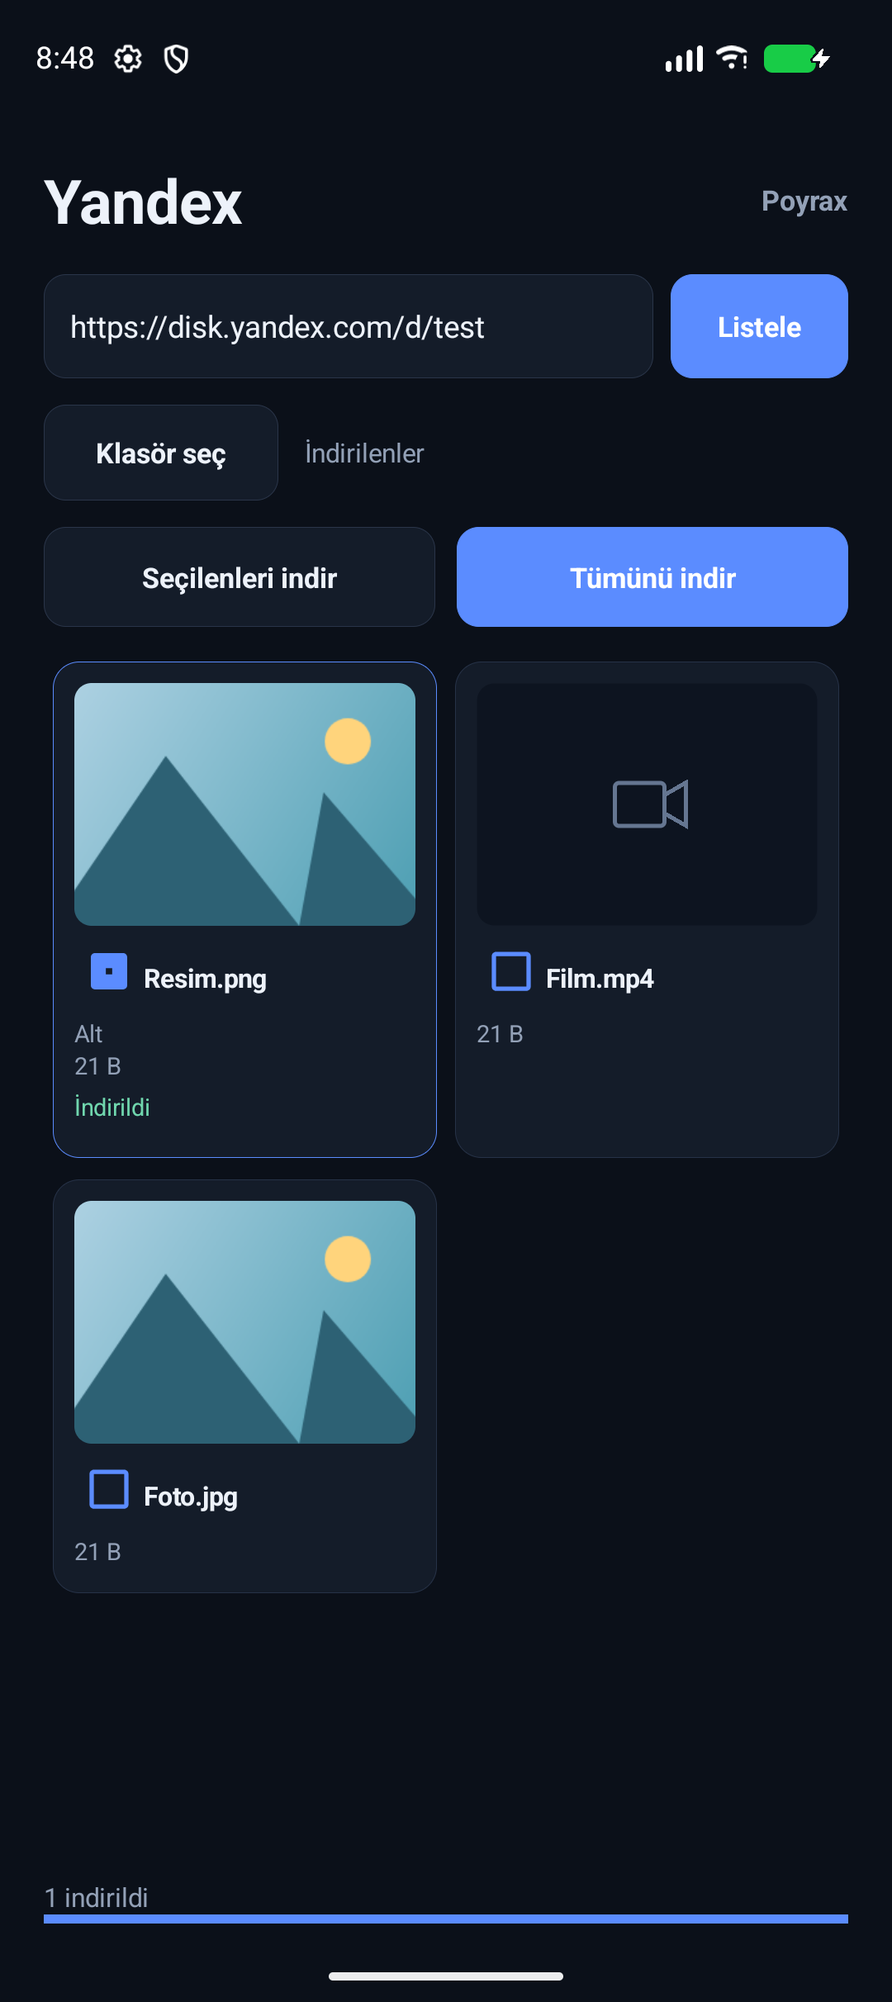
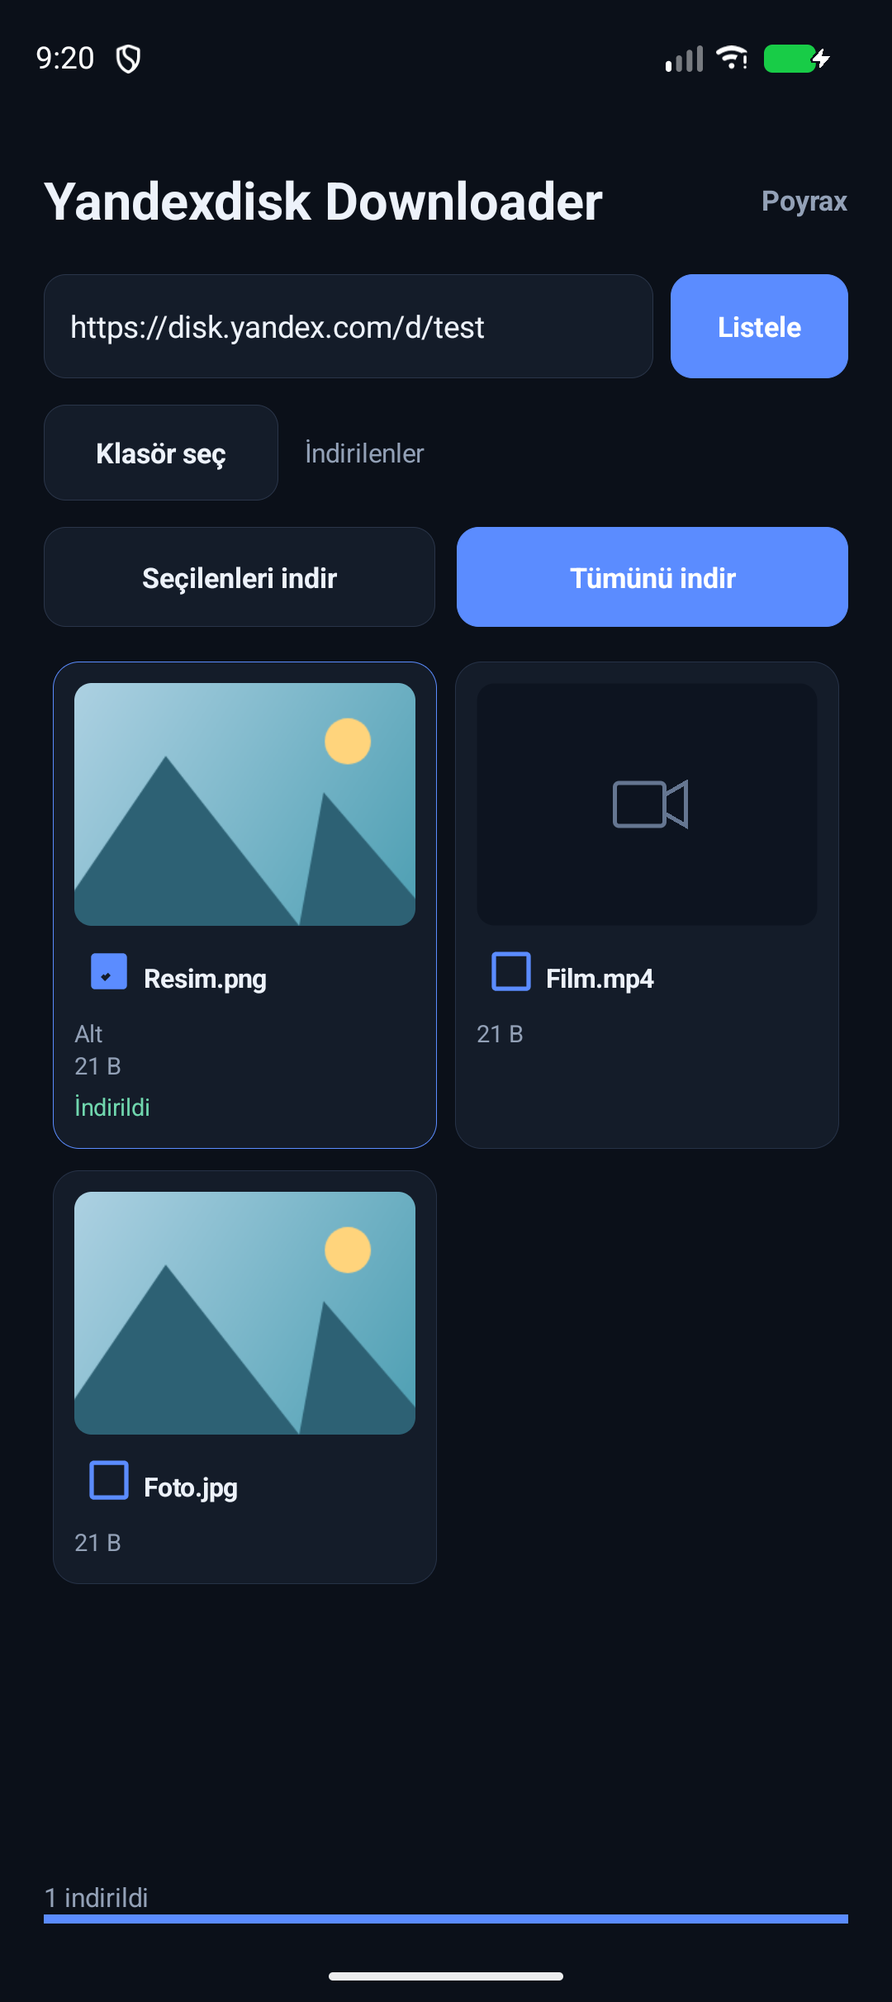
Rename Android app and document empty Yandex download addresses

diff --git a/android/app/src/androidTest/java/com/poyrax/yandex/AppTest.java b/android/app/src/androidTest/java/com/poyrax/yandex/AppTest.java
@@ -54,6 +54,7 @@ public class AppTest {
             until(() -> children(session.activity.getWindow().getDecorView(), android.widget.ImageView.class).stream().anyMatch(view -> view.getDrawable() != null));
             instrumentation.runOnMainSync(() -> {
                 assertNotNull(findText(session.activity, "Poyrax"));
+                assertNotNull(findText(session.activity, "Yandexdisk Downloader"));
                 List<CheckBox> choices = children(session.activity.getWindow().getDecorView(), CheckBox.class);
                 assertFalse(choices.isEmpty());
                 choices.get(0).setChecked(true);
@@ -61,8 +62,10 @@ public class AppTest {
                 assertTrue(selected.isEnabled());
                 selected.performClick();
             });
-            until(() -> findText(session.activity, "1 indirildi") != null);
+            until(() -> findText(session.activity, "1 indirildi") != null && !session.activity.downloadService.running);
             assertEquals(1, countFiles(session.folder));
+            instrumentation.waitForIdleSync();
+            Thread.sleep(200);
             screenshot("android.png");
         } finally { close(session.activity); }
     }
@@ -76,6 +79,8 @@ public class AppTest {
             instrumentation.runOnMainSync(() -> ((Button) findText(session.activity, "Tümünü indir")).performClick());
             until(() -> findText(session.activity, "3 indirildi · 1 indirilemedi") != null);
             assertEquals(3, countFiles(session.folder));
+            instrumentation.runOnMainSync(() -> children(session.activity.getWindow().getDecorView(), androidx.recyclerview.widget.RecyclerView.class).get(0).scrollToPosition(3));
+            until(() -> findText(session.activity, "İndirme adresi verilmedi. Paylaşımın indirme iznini kontrol edin.") != null);
             assertNotNull(session.folder.findFile("Alt"));
             assertNotNull(session.folder.findFile("Alt").findFile("Resim.png"));
             instrumentation.runOnMainSync(() -> ((Button) findText(session.activity, "Tümünü indir")).performClick());
@@ -201,8 +206,8 @@ public class AppTest {
             if (thumbnail) body = preview;
             else if (address.contains("/resources/download")) {
                 String path = URLDecoder.decode(address.substring(address.indexOf("&path=") + 6), "UTF-8");
-                if (blocked && path.equals("/Kapali.jpg")) status = 403;
-                body = ("{\"href\":\"https://download.test/file\"}").getBytes(StandardCharsets.UTF_8);
+                body = (blocked && path.equals("/Kapali.jpg") ? "{\"method\":\"GET\",\"href\":\"\",\"templated\":false}" :
+                        "{\"href\":\"https://download.test/file\"}").getBytes(StandardCharsets.UTF_8);
             } else if (address.contains("/resources?")) {
                 try {
                     JSONArray items = new JSONArray();

diff --git a/windows/Tests/Program.cs b/windows/Tests/Program.cs
@@ -47,6 +47,7 @@ internal static class Program
             ("Windows adları ve klasör sınırı", SafePathsAsync),
             ("Klasör adı çakışmaları", FolderCollisionsAsync),
             ("İndirme bağlantısını yenileme", DownloadRetriesAsync),
+            ("Boş indirme adresi ve devam eden kuyruk", EmptyDownloadAddressAsync),
             ("Eksik dosya ve devam eden kuyruk", FailedTransferAsync),
             ("Büyük dosya, akış ve eşzamanlılık", LargeStreamingAsync),
             ("İptal ve yarım dosya temizliği", DownloadCancellationAsync),
@@ -284,6 +285,24 @@ internal static class Program
         Equal(3, links);
         Equal(3, transfers);
         Equal(0, Directory.GetFiles(folder.Path, "*.part").Length);
+    }
+
+    private static async Task EmptyDownloadAddressAsync()
+    {
+        foreach (var body in new[] { "{\"method\":\"GET\",\"href\":\"\",\"templated\":false}", "{\"href\":\"   \"}", "{\"href\":null}", "{}" })
+        {
+            using var folder = new TemporaryFolder();
+            using var http = Mock(request => request.RequestUri!.Host != "cloud-api.yandex.net" ? Bytes(Payload) :
+                Query(request, "path") == "/bad.jpg" ? new HttpResponseMessage(HttpStatusCode.OK) { Content = new StringContent(body) } :
+                Json(new { href = "https://download.test/file" }));
+            using var client = Client(http);
+            var result = await client.DownloadAsync(Link, [File("bad.jpg"), File("good.jpg")], folder.Path, null, default);
+            Equal(1, result.Completed);
+            Equal(1, result.Failed);
+            Check(result.Updates.Any(u => u.State == TransferState.Failed && u.Error!.Contains("İndirme adresi verilmedi")), "Boş adres için hata eksik");
+            Equal(1, Directory.GetFiles(folder.Path).Length);
+            Check(System.IO.File.Exists(System.IO.Path.Combine(folder.Path, "good.jpg")), "Diğer dosya indirilmedi");
+        }
     }
 
     private static async Task FailedTransferAsync()

diff --git a/android/app/src/androidTest/java/com/poyrax/yandex/ApiTest.java b/android/app/src/androidTest/java/com/poyrax/yandex/ApiTest.java
@@ -1,0 +1,47 @@
+package com.poyrax.yandex;
+
+import android.os.Bundle;
+
+import androidx.test.ext.junit.runners.AndroidJUnit4;
+import androidx.test.platform.app.InstrumentationRegistry;
+
+import org.junit.Assume;
+import org.junit.Test;
+import org.junit.runner.RunWith;
+
+import java.util.List;
+import java.util.Arrays;
+import java.io.File;
+import java.io.FileOutputStream;
+import java.io.IOException;
+import java.io.OutputStream;
+
+import static org.junit.Assert.*;
+
+@RunWith(AndroidJUnit4.class)
+public class ApiTest {
+    @Test
+    public void publicShareWorks() throws Exception {
+        Bundle arguments = InstrumentationRegistry.getArguments();
+        String link = arguments.getString("publicLink");
+        Assume.assumeTrue(link != null && !link.isEmpty());
+        DiskClient client = new DiskClient();
+        String path = arguments.getString("publicPath");
+        if (path == null) {
+            List<MediaFile> files = client.list(link, new DiskClient.Cancellation(), null);
+            assertFalse(files.isEmpty());
+            System.out.println("API media count: " + files.size());
+            return;
+        }
+        File output = File.createTempFile("download-", ".part", InstrumentationRegistry.getInstrumentation().getTargetContext().getCacheDir());
+        try {
+            MediaFile file = new MediaFile("test.jpg", path, Arrays.asList("test.jpg"), 0, false, "", "image/jpeg");
+            client.download(link, file, new DiskClient.Destination() {
+                @Override public OutputStream open() throws IOException { return new FileOutputStream(output); }
+                @Override public void complete() { assertTrue(output.length() > 0); }
+                @Override public void abort() { output.delete(); }
+            }, new DiskClient.Cancellation(), (bytes, total) -> {});
+            System.out.println("API downloaded bytes: " + output.length());
+        } finally { output.delete(); }
+    }
+}

diff --git a/android/app/src/test/java/com/poyrax/yandex/DiskClientTest.java b/android/app/src/test/java/com/poyrax/yandex/DiskClientTest.java
@@ -114,6 +114,25 @@ public class DiskClientTest {
     }
 
     @Test
+    public void emptyDownloadAddressesFailWithoutReadingFileData() throws Exception {
+        for (String json : Arrays.asList("{\"method\":\"GET\",\"href\":\"\",\"templated\":false}", "{\"href\":\"   \"}", "{\"href\":null}", "{}")) {
+            AtomicInteger requests = new AtomicInteger();
+            Fake client = new Fake(url -> {
+                requests.incrementAndGet();
+                assertTrue(url.contains("/resources/download"));
+                return response(json);
+            });
+            MemoryDestination destination = new MemoryDestination();
+            IOException error = assertThrows(IOException.class, () -> client.download(LINK, file(), destination,
+                    new DiskClient.Cancellation(), (bytes, total) -> {}));
+            assertTrue(error.getMessage().contains("İndirme adresi verilmedi"));
+            assertEquals(1, requests.get());
+            assertFalse(destination.completed);
+            assertNull(destination.output);
+        }
+    }
+
+    @Test
     public void expiredDownloadAddressIsRefreshed() throws Exception {
         AtomicInteger links = new AtomicInteger();
         AtomicInteger transfers = new AtomicInteger();

diff --git a/android/app/src/main/java/com/poyrax/yandex/DownloadService.java b/android/app/src/main/java/com/poyrax/yandex/DownloadService.java
@@ -196,7 +196,7 @@ public final class DownloadService extends Service {
     private Notification notification() {
         PendingIntent open = PendingIntent.getActivity(this, 0, new Intent(this, MainActivity.class), PendingIntent.FLAG_UPDATE_CURRENT | PendingIntent.FLAG_IMMUTABLE);
         PendingIntent cancel = PendingIntent.getService(this, 1, new Intent(this, DownloadService.class).setAction(CANCEL), PendingIntent.FLAG_UPDATE_CURRENT | PendingIntent.FLAG_IMMUTABLE);
-        return new Notification.Builder(this, CHANNEL).setSmallIcon(R.drawable.ic_download).setContentTitle("Yandex")
+        return new Notification.Builder(this, CHANNEL).setSmallIcon(R.drawable.ic_download).setContentTitle("Yandexdisk Downloader")
                 .setContentText(summary).setContentIntent(open).setOngoing(true).setOnlyAlertOnce(true)
                 .setProgress(100, percent, false).addAction(new Notification.Action.Builder(null, "İptal", cancel).build()).build();
     }

diff --git a/windows/DiskClient.cs b/windows/DiskClient.cs
@@ -208,7 +208,9 @@ public sealed class DiskClient : IDisposable
                 token.ThrowIfCancellationRequested();
                 progress?.Report(new(file, TransferState.Downloading, 0, file.Size));
                 using var address = await GetJsonAsync($"{Api}/download?public_key={Uri.EscapeDataString(link)}&path={Uri.EscapeDataString(file.Path)}", token).ConfigureAwait(false);
-                string href = RequiredString(address.RootElement, "href");
+                string? href = GetString(address.RootElement, "href");
+                if (string.IsNullOrWhiteSpace(href))
+                    throw new DiskException("İndirme adresi verilmedi. Paylaşımın indirme iznini kontrol edin.");
                 ValidateHttps(href);
                 using var response = await SendAsync(href, token).ConfigureAwait(false);
                 if (IsTransient(response.StatusCode) || response.StatusCode is HttpStatusCode.Forbidden or HttpStatusCode.Unauthorized)

diff --git a/android/app/src/main/java/com/poyrax/yandex/DiskClient.java b/android/app/src/main/java/com/poyrax/yandex/DiskClient.java
@@ -131,7 +131,10 @@ public class DiskClient {
                 cancel.check();
                 progress.update(0, file.size);
                 JSONObject address = json(API + "/download?public_key=" + encode(link) + "&path=" + encode(file.path), cancel);
-                connection = open(required(address, "href"), cancel);
+                Object href = address.opt("href");
+                if (!(href instanceof String) || ((String) href).trim().isEmpty())
+                    throw new PermanentException("İndirme adresi verilmedi. Paylaşımın indirme iznini kontrol edin.");
+                connection = open((String) href, cancel);
                 int code = connection.getResponseCode();
                 if (transientStatus(code) || code == 403 || code == 401) throw new RetryException(delay(connection, attempt));
                 checkStatus(code);

diff --git a/android/app/src/main/java/com/poyrax/yandex/MainActivity.java b/android/app/src/main/java/com/poyrax/yandex/MainActivity.java
@@ -111,7 +111,9 @@ public final class MainActivity extends Activity {
             });
         }
         LinearLayout heading = row();
-        TextView title = text("Yandex", 28, TEXT);
+        TextView title = text("Yandexdisk Downloader", 24, TEXT);
+        title.setSingleLine(true);
+        title.setAutoSizeTextTypeUniformWithConfiguration(14, 24, 1, android.util.TypedValue.COMPLEX_UNIT_SP);
         title.setTypeface(null, Typeface.BOLD);
         heading.addView(title, new LinearLayout.LayoutParams(0, dp(44), 1));
         TextView signature = text("Poyrax", 13, MUTED);

diff --git a/README.md b/README.md
@@ -1,4 +1,97 @@
-# Yandex
+# Yandexdisk Downloader
+
+[English](#english) · [Türkçe](#türkçe)
+
+## English
+
+Download videos and images from public Yandex Disk links on Windows and Android. Select files from the gallery or download all media, including files in subfolders.
+
+Dark theme, Turkish interface. Developed by [Poyrax](https://github.com/Poyraxx).
+
+### Download and install
+
+| Platform | Download | Requirements |
+| --- | --- | --- |
+| Windows | [Yandex.exe](https://github.com/Poyraxx/yandexdisk-video-downloader/releases/latest/download/Yandex.exe) | Windows 10 or later, 64 bit |
+| Android | [Yandex.apk](https://github.com/Poyraxx/yandexdisk-video-downloader/releases/latest/download/Yandex.apk) | Android 8.0 or later |
+
+All versions are on the [Releases](https://github.com/Poyraxx/yandexdisk-video-downloader/releases) page. You do not need the source code to use the app.
+
+**Windows:** Download `Yandex.exe`, put it in a folder and open it. No installer or separate .NET installation is needed. To remove the app, delete the EXE; downloaded files stay in your chosen folder.
+
+**Android:** Download `Yandex.apk` to your phone and open it. If Android asks, allow installation from the browser or file app you used to open the APK, then finish installing. The installed app is named **Yandexdisk Downloader**. It is distributed here, outside the Play Store.
+
+The app may ask for notification permission to show download progress and a cancel button. Choose a destination using Android's folder picker; the app does not request access to all storage.
+
+### Use
+
+1. Paste a public Yandex Disk link into the link field.
+2. Press **Listele** (List) and wait for the scan to finish.
+3. Press **Klasör seç** (Choose folder) to select the destination.
+4. Check files and press **Seçilenleri indir** (Download selected), or use **Tümünü indir** (Download all).
+5. Press **İptal** (Cancel) to stop.
+
+Single files and nested folders are supported. Videos and images appear in one gallery; downloads preserve their folder structure. Other file types are skipped. Files are saved without conversion. Existing files are kept, with new copies named like `photo (1).jpg`. Up to two files download at once, directly to storage.
+
+Cancelling keeps completed files and removes incomplete files. Temporary network failures are retried a limited number of times. A failed file does not stop the others; its error appears in the gallery. Downloads remain disabled if a folder scan is incomplete.
+
+Thumbnails load for visible items. Videos without a preview use a video icon; the app does not download a video to create its thumbnail.
+
+On Android, downloads continue in the background with a notification. They do not resume after the app is force stopped, its process is ended by the system, or the device restarts.
+
+### Supported links
+
+Links must be public and allow downloading. Account login, private or password protected shares, and video playback are not supported. Closed, invalid or restricted links show a short error. If folder permissions change, choose the folder again.
+
+### Build from source
+
+**Windows:** Install the [.NET 10 SDK](https://dotnet.microsoft.com/download/dotnet/10.0) on Windows, then run from the repository folder:
+
+```powershell
+dotnet publish windows/Yandex.csproj -c Release -p:PublishProfile=Windows
+```
+
+The portable EXE is written to `windows/publish/Yandex.exe`.
+
+**Android:** Open `android` in Android Studio. Use Android SDK 37, Build Tools 36.0.0 and JDK 17 or later. The project uses Gradle 9.6 and Android Gradle Plugin 9.4. On Windows, use a path without Turkish characters, such as `C:\Projects\yandexdisk-video-downloader`.
+
+Run from the `android` folder:
+
+```powershell
+.\gradlew.bat :app:assembleDebug
+```
+
+The debug APK is written to `android/app/build/outputs/apk/debug/app-debug.apk`.
+
+For a release APK, create your own keystore with the alias `poyrax`. Set `YANDEX_KEYSTORE`, `YANDEX_STORE_PASSWORD` and `YANDEX_KEY_PASSWORD`, then run:
+
+```powershell
+.\gradlew.bat :app:assembleRelease
+```
+
+The output is `android/app/build/outputs/apk/release/app-release.apk`. Signing keys and passwords are excluded from the repository. Updates require the same signature; uninstall the published app first if your build uses a different key.
+
+### Tests
+
+From the repository folder:
+
+```powershell
+dotnet run --project windows/Tests/Yandex.Tests.csproj -c Release
+dotnet run --project windows/Tests/Yandex.Tests.csproj -c Release -- --ui-check
+```
+
+From `android`:
+
+```powershell
+.\gradlew.bat :app:testDebugUnitTest
+.\gradlew.bat :app:connectedDebugAndroidTest
+```
+
+Device tests require a connected device or emulator. Tests cover single files, nested folders, pagination, media filtering, selected and bulk downloads, filename collisions, interrupted transfers and cancellation using sample API responses. A real file download was verified on Android with a separate public share. Empty download addresses in successful Yandex responses were also checked; the app reports that no download address was provided. Large file, network interruption and cancellation scenarios use sample responses.
+
+Screenshots below use sample test files. Listing and downloads use the [Yandex Disk REST API](https://yandex.com/dev/disk-api/doc/en/). This is an independent app, not an official Yandex product.
+
+## Türkçe
 
 Herkese açık Yandex Disk bağlantılarındaki video ve görselleri Windows veya Android’de indirmek için küçük bir uygulama. Dosyaları galeriden seçebilir ya da bağlantının altındaki bütün medyayı tek seferde indirebilirsiniz.
 
@@ -8,10 +101,10 @@ Türkçe arayüz, karanlık tema. Geliştirici: [Poyrax](https://github.com/Poyr
 
 | Platform | Dosya | Gereksinim |
 | --- | --- | --- |
-| Windows | [Yandex.exe](https://github.com/Poyraxx/yandex/releases/latest/download/Yandex.exe) | Windows 10 veya üzeri, 64 bit |
-| Android | [Yandex.apk](https://github.com/Poyraxx/yandex/releases/latest/download/Yandex.apk) | Android 8.0 veya üzeri |
+| Windows | [Yandex.exe](https://github.com/Poyraxx/yandexdisk-video-downloader/releases/latest/download/Yandex.exe) | Windows 10 veya üzeri, 64 bit |
+| Android | [Yandex.apk](https://github.com/Poyraxx/yandexdisk-video-downloader/releases/latest/download/Yandex.apk) | Android 8.0 veya üzeri |
 
-Bütün sürümler [Releases](https://github.com/Poyraxx/yandex/releases) sayfasında. Çalıştırmak için depodaki kaynak kodu indirmeniz gerekmez.
+Bütün sürümler [Releases](https://github.com/Poyraxx/yandexdisk-video-downloader/releases) sayfasında. Çalıştırmak için depodaki kaynak kodu indirmeniz gerekmez.
 
 ### Windows
 
@@ -19,7 +112,7 @@ Bütün sürümler [Releases](https://github.com/Poyraxx/yandex/releases) sayfas
 
 ### Android
 
-`Yandex.apk` dosyasını telefona indirin ve açın. Android isterse, APK’yı açtığınız tarayıcı veya dosya uygulaması için **Bu kaynaktan izin ver** seçeneğini kullanıp kurulumu tamamlayın. Uygulama Play Store üzerinden dağıtılmıyor.
+`Yandex.apk` dosyasını telefona indirin ve açın. Android isterse, APK’yı açtığınız tarayıcı veya dosya uygulaması için **Bu kaynaktan izin ver** seçeneğini kullanıp kurulumu tamamlayın. Kurulan uygulamanın adı **Yandexdisk Downloader**. Uygulama Play Store üzerinden dağıtılmıyor.
 
 İndirme sırasında bildirim izni istenebilir. Bildirim üzerinden ilerlemeyi görebilir ve indirmeyi iptal edebilirsiniz. Dosyaların kaydedileceği klasörü Android’in klasör seçicisinden siz belirlersiniz; uygulama tüm depolamaya erişim izni istemez.
 
@@ -69,7 +162,7 @@ Taşınabilir EXE, `windows/publish/Yandex.exe` konumuna çıkar.
 
 ### Android
 
-Android Studio’da `android` klasörünü açın. Android SDK 37, Build Tools 36.0.0 ve JDK 17 veya üzeri gerekir. Gradle 9.6 ve Android Gradle Plugin 9.4 proje dosyalarında tanımlıdır. Windows’ta derleme için projeyi Türkçe karakter içermeyen bir yola çıkarın; örneğin `C:\Projects\yandex`.
+Android Studio’da `android` klasörünü açın. Android SDK 37, Build Tools 36.0.0 ve JDK 17 veya üzeri gerekir. Gradle 9.6 ve Android Gradle Plugin 9.4 proje dosyalarında tanımlıdır. Windows’ta derleme için projeyi Türkçe karakter içermeyen bir yola çıkarın; örneğin `C:\Projects\yandexdisk-video-downloader`.
 
 Deneme APK’sı için `android` klasöründe çalıştırın:
 
@@ -103,8 +196,8 @@ Android kontrolleri, `android` klasöründen:
 .\gradlew.bat :app:connectedDebugAndroidTest
 ```
 
-Cihaz testleri için bağlı bir Android cihazı veya çalışan bir emülatör gerekir. Windows’ta 20 indirme/API kontrolü ve 4 arayüz kontrolü; Android’de 13 birim testi ve Android 8 ile Android 17 emülatörlerinde üçer cihaz testi geçti. İmzalı APK’nın her iki Android sürümünde kurulup açılması da doğrulandı.
+Cihaz testleri için bağlı bir Android cihazı veya çalışan bir emülatör gerekir. Windows’ta 21 indirme/API kontrolü ve 4 arayüz kontrolü; Android’de 14 birim testi bulunur. Galeri, indirme ve iptal için üç cihaz testi Android 8 ve Android 17 emülatörlerinde sınandı.
 
-Testler tek dosya, alt klasörler, sayfalama, dosya türü ayrımı, seçili ve toplu indirme, isim çakışması, kesilen bağlantı ve iptal davranışlarını örnek API yanıtlarıyla kontrol eder. Gerçek Yandex paylaşımıyla uçtan uca indirme bu sürümde henüz doğrulanmadı.
+Testler tek dosya, alt klasörler, sayfalama, dosya türü ayrımı, seçili ve toplu indirme, isim çakışması, kesilen bağlantı ve iptali örnek API yanıtlarıyla kontrol eder. Android üzerinde ayrı bir herkese açık paylaşımda gerçek dosya indirme doğrulandı. Yandex’in başarılı yanıtta boş indirme adresi döndürmesi de kontrol edildi; uygulama bu durumda indirme izninin kontrol edilmesini isteyen bir hata gösterir. Büyük dosya, ağ kesintisi ve iptal senaryoları gerçek paylaşım yerine örnek yanıtlarla sınandı.
 
-Listeleme ve indirme için Yandex Disk’in [REST API’si](https://yandex.com/dev/disk/api/reference/public.html) kullanılır. Uygulama Yandex’in resmi ürünü değildir.
+Listeleme ve indirme için Yandex Disk’in [REST API’si](https://yandex.com/dev/disk-api/doc/en/) kullanılır. Uygulama Yandex’in resmi ürünü değildir.
